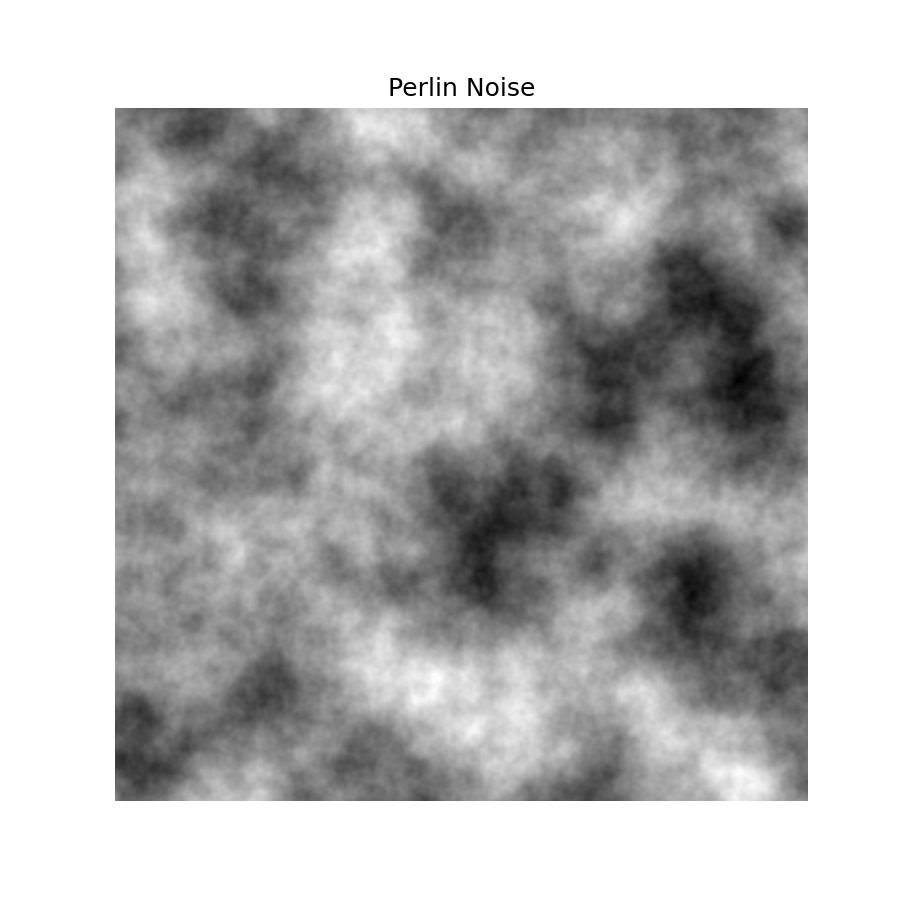
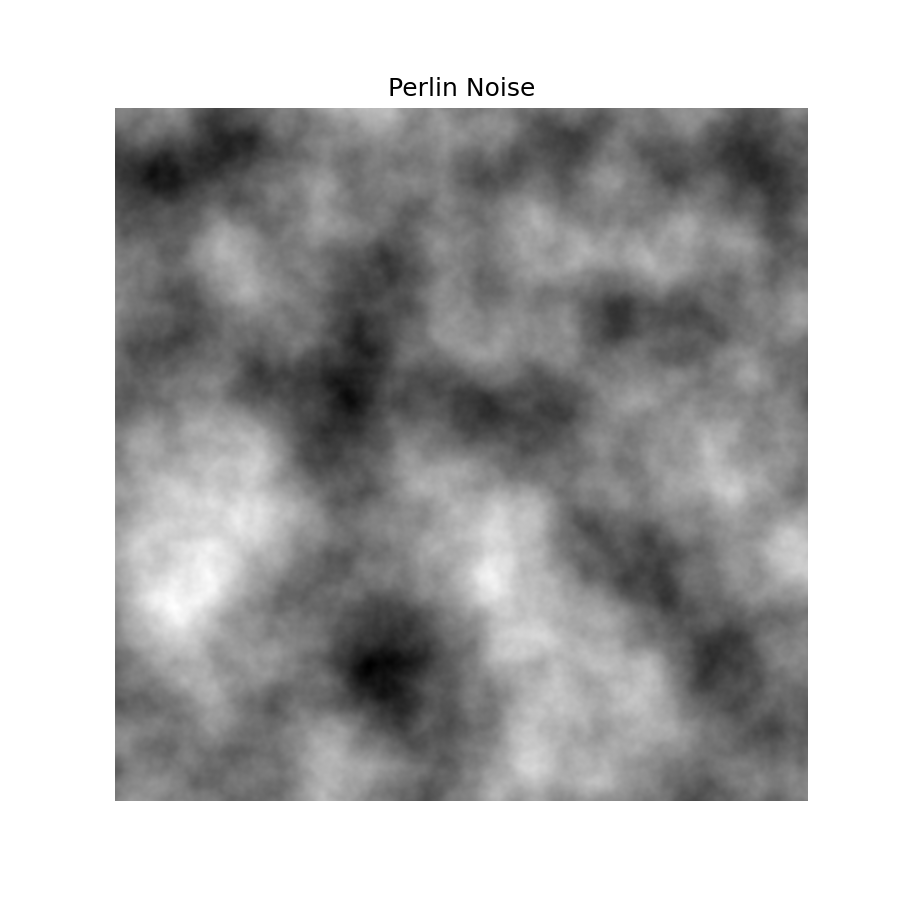
refactor: encapsulate Perlin noise in Noise class

diff --git a/noise.py b/noise.py
@@ -1,118 +1,197 @@
+
 import torch
 import numpy
+from dataclasses import dataclass
 import matplotlib.pyplot as plt
 
 device = torch.device('cuda' if torch.cuda.is_available() else 'cpu')
 print(f"current device={device}")
 
-
-def fade(t):
-    return 3*t**2-2*t**3
-
-def lerp(a, b, t):
-    return a + t * (b - a)
-
-def perlin_2d(
-    width: int,
-    height: int,
-    scale: float = 5.0,
-    seed: int | None = None,
+@dataclass
+class Noise:
+    # Hyper-Params
+    width: int
+    height: int
+    scale: float = 4.0
+    seed: int | None = None
     device: torch.device = device
-):
-    if seed is not None:
-        torch.manual_seed(seed)
+
+    # Initalizing variables
+    def __post_init__(self):
+
+        # Distance vectors
+        self.d00 = torch.empty(self.height, self.width, 2, device=self.device)
+        self.d10 = torch.empty_like(self.d00)
+        self.d01 = torch.empty_like(self.d00)
+        self.d11 = torch.empty_like(self.d00)
+
+        # Gradients
+        self.g00 = torch.empty_like(self.d00)
+        self.g10 = torch.empty_like(self.d00)
+        self.g01 = torch.empty_like(self.d00)
+        self.g11 = torch.empty_like(self.d00)
+
+        # Noise Values
+        self.n00 = torch.empty(self.height, self.width, device=self.device)
+        self.n10 = torch.empty_like(self.n00)
+        self.n01 = torch.empty_like(self.n00)
+        self.n11 = torch.empty_like(self.n00)
+
+    def fade(self, t):
+        # return 3*t**2-2*t**3
+        # return 6*t**5-15*t**4+10*t**3
+        # return t**3 * (t * (6*t - 15) + 10)
+        # return t**4 * (35 - 84*t + 70*t**2 - 20*t**3)
+        return t * t * t * (t * (t * 6 - 15) + 10)
+
+    def lerp(self, a, b, t):
+        return a + t * (b - a)
     
-    x_lin = torch.linspace(0, scale, width, device=device, dtype=torch.float32) # (0 - scale) there will be as many different values as the width variable
-    y_lin = torch.linspace(0, scale, height, device=device, dtype=torch.float32)
-    y, x  = torch.meshgrid(y_lin, x_lin, indexing='ij')
+    def Perlin(self, seed, scale):
 
-    x0 = x.floor().long()
-    y0 = y.floor().long()
-    x1 = x0 + 1
-    y1 = y0 + 1
+        # Match Arguments
+        width = self.width
+        height = self.height
+        device = self.device
 
-    xf = x - x0
-    yf = y - y0
+        d00 = self.d00
+        d10 = self.d10
+        d01 = self.d01
+        d11 = self.d11
+
+        g00 = self.g00
+        g10 = self.g10
+        g01 = self.g01
+        g11 = self.g11
+
+        n00 = self.n00
+        n10 = self.n10
+        n01 = self.n01
+        n11 = self.n11
+
+        if seed is not None:
+            torch.manual_seed(seed)
+
+        # Grid
+        x_lin = torch.linspace(0, scale, width , device = device)
+        y_lin = torch.linspace(0, scale, height, device = device)
+        y, x = torch.meshgrid(y_lin, x_lin, indexing="ij")
+
+        # Random Rotation
+        rotation = torch.empty(width+1, height+1, device=device).uniform_(0, 2 * torch.pi) # among 0 - (2 * π)
+
+        x0 = x.floor().long()
+        y0 = y.floor().long()
+        x1 = x0 + 1
+        y1 = y0 + 1
+
+        xf = x - x0
+        yf = y - y0
+
+        # Calculate The Distance
+        d00[..., 0] = xf
+        d00[..., 1] = yf
+
+        d10[..., 0] = xf - 1
+        d10[..., 1] = yf
+
+        d01[..., 0] = xf
+        d01[..., 1] = yf - 1
+
+        d11[..., 0] = xf - 1
+        d11[..., 1] = yf - 1
+
+        # Calculate The Gradient
+        g00[..., 0] = rotation[y0, x0].cos()
+        g00[..., 1] = rotation[y0, x0].sin()
+
+        g10[..., 0] = rotation[y0, x1].cos()
+        g10[..., 1] = rotation[y0, x1].sin()
+
+        g01[..., 0] = rotation[y1, x0].cos()
+        g01[..., 1] = rotation[y1, x0].sin()
+
+        g11[..., 0] = rotation[y1, x1].cos()
+        g11[..., 1] = rotation[y1, x1].sin()
+
+        # Dot Product
+        n00 = (g00 * d00).sum(dim=-1)
+        n10 = (g10 * d10).sum(dim=-1)
+        n01 = (g01 * d01).sum(dim=-1)
+        n11 = (g11 * d11).sum(dim=-1)
+
+        u = self.fade(xf) # u is among to (0 - 1)
+        v = self.fade(yf) # same for v
+
+        nx0   = self.lerp(n00, n10, u)
+        nx1   = self.lerp(n01, n11, u)
+        value = self.lerp(nx0, nx1, v)
+
+        return value # Shape: (height, width)
     
+    def perlin_octave_2d(
+        self,
+        octaves: int = 6,
+        persistence: float = 0.5,
+        lacunarity: float = 2.0,
+        turbulence: bool = False
+    ):
+        width   =   self.width
+        height  =   self.height
+        scale   =   self.scale
+        seed    =   self.seed
+        device  =   self.device
 
-    # Random rotation
-    rotation = torch.rand(width+1, height+1, device=device) * (2 * torch.pi) # among 0 - (2 * π)
-    grad = torch.stack([rotation.cos(), rotation.sin()], dim=-1)
+        perlin = self.Perlin
 
-    g00 = grad[y0, x0]
-    g01 = grad[y1, x0]
-    g10 = grad[y0, x1]
-    g11 = grad[y1, x1]
+        """
+        octaves: How many layers of noise will be added.
+        persistence: How much the amplitude will decrease in each octave (Typically 0.5).
+        lacunarity: How much the frequency (detail) will increase in each octave (Typically 2.0).
+        """
 
-    d00 = torch.stack([xf    , yf    ], dim=-1)
-    d10 = torch.stack([xf - 1, yf    ], dim=-1)
-    d01 = torch.stack([xf    , yf - 1], dim=-1)
-    d11 = torch.stack([xf - 1, yf - 1], dim=-1)
+        total_noise = torch.zeros((height, width), device=device)
+        amp = 0.1
 
-    n00 = (g00 * d00).sum(dim=-1)
-    n10 = (g10 * d10).sum(dim=-1)
-    n01 = (g01 * d01).sum(dim=-1)
-    n11 = (g11 * d11).sum(dim=-1)
+        for i in range(octaves):
+            layer_seed = seed + i if seed is not None else None
 
-    u = fade(xf) # u is among to (0 - 1)
-    v = fade(yf) # same for v
+            layer = perlin(layer_seed, scale)
 
-    nx0 = lerp(n00, n10, u)
-    nx1 = lerp(n01, n11, u)
-    value = lerp(nx0, nx1, v)
-    return value # Shape: (height, width)
+            if(turbulence == False): # if turbulence mode is off?
+                total_noise += layer * amp # for normal usage
+            else:
+                gamma = 0.5 # usable when gamma among to (0 - 1)
+                total_noise += (torch.abs(layer) ** gamma) * amp
+            
+            amp *= persistence
+            scale *= lacunarity
 
-def perlin_octave_2d(
-    width: int,
-    height: int,
-    base_scale: float = 5.0,
-    octaves: int = 6,
-    persistence: float = 0.5,
-    lacunarity: float = 2.0,
-    seed: int | None = None,
-    turbulence: bool = False,
-    device: torch.device = device
-):
-    """
-    octaves: How many layers of noise will be added.
-    persistence: How much the amplitude will decrease in each octave (Typically 0.5).
-    lacunarity: How much the frequency (detail) will increase in each octave (Typically 2.0).
-    """
-    total_noise = torch.zeros((height, width), device=device)
-    amp = 0.1
-    scale = base_scale
-    max_value = 0.0
+        return total_noise
 
-    for i in range(octaves):
-        layer_seed = seed + i if seed is not None else None
+start_event = torch.cuda.Event(enable_timing=True)
+end_event   = torch.cuda.Event(enable_timing=True)
+start_event.record()
 
-        layer = perlin_2d(width, height, scale, seed=layer_seed, device=device)
-
-        if(turbulence == False): # if turbulence mode is off?
-            total_noise += layer * amp # for normal usage
-        else:
-            gamma = 0.5 # usable when gamma among to (0 - 1)
-            total_noise += (torch.abs(layer) ** gamma) * amp
-        
-        max_value += amp
-        amp *= persistence
-        scale *= lacunarity
-
-    # To scale the result between -1 and 1 (or normalize it to 0-1)
-    return total_noise / max_value
-
-noise = perlin_octave_2d(
-    width=1024, 
-    height=1024, 
-    base_scale=4.0, 
-    octaves=6, 
-    persistence=0.6, 
-    lacunarity=2.0,
-    seed=None
+PerlinNoise = Noise(
+    width=4096, 
+    height=4096, 
+    scale=4.0,
+    seed=None,
+    device=device
 )
+
+noise = PerlinNoise.perlin_octave_2d()
+
+end_event.record()        # Save Finish Time
+
+torch.cuda.synchronize()  # Synchronized for time measurement
+elapsed_time_ms = start_event.elapsed_time(end_event)  # ms type
+print(f"GPU time: {elapsed_time_ms} ms")
 
 plt.figure(figsize=(6, 6))
 plt.imshow(noise.cpu().numpy(), cmap='gray', origin='upper')
 plt.axis('off')
 plt.title('Perlin Noise')
 plt.savefig("noise.png", dpi=150)
+# plt.show()
